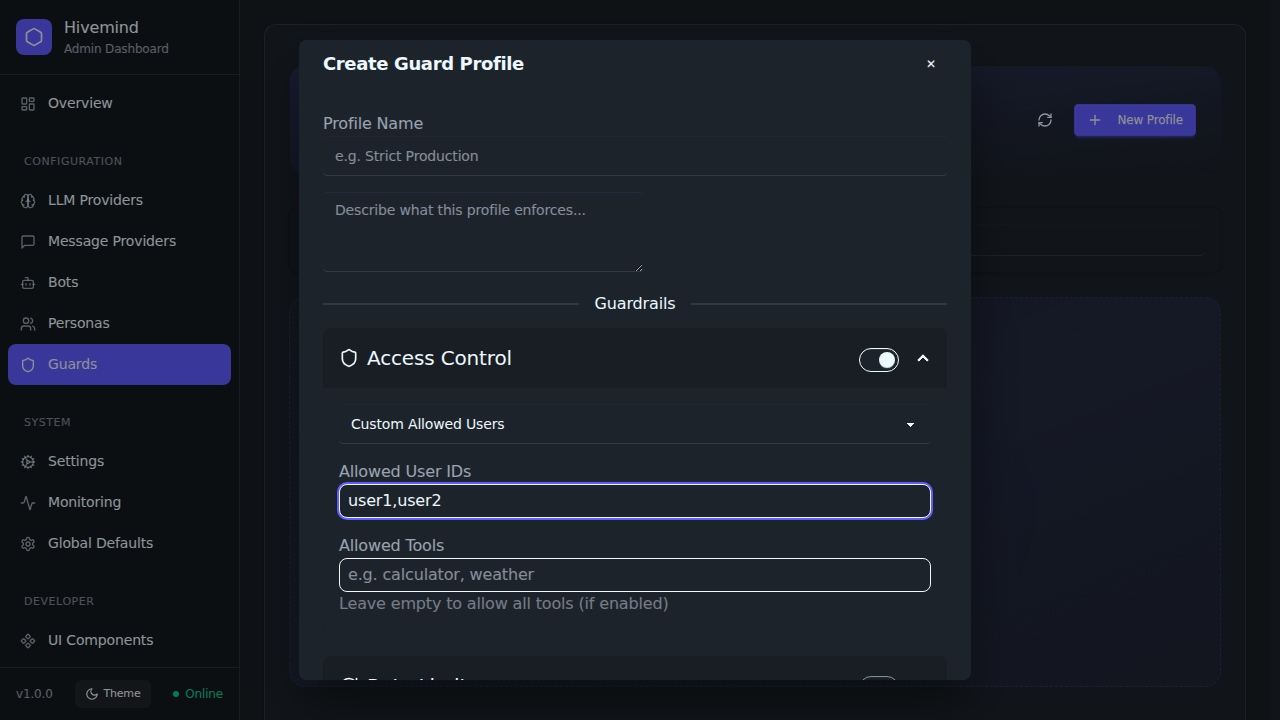
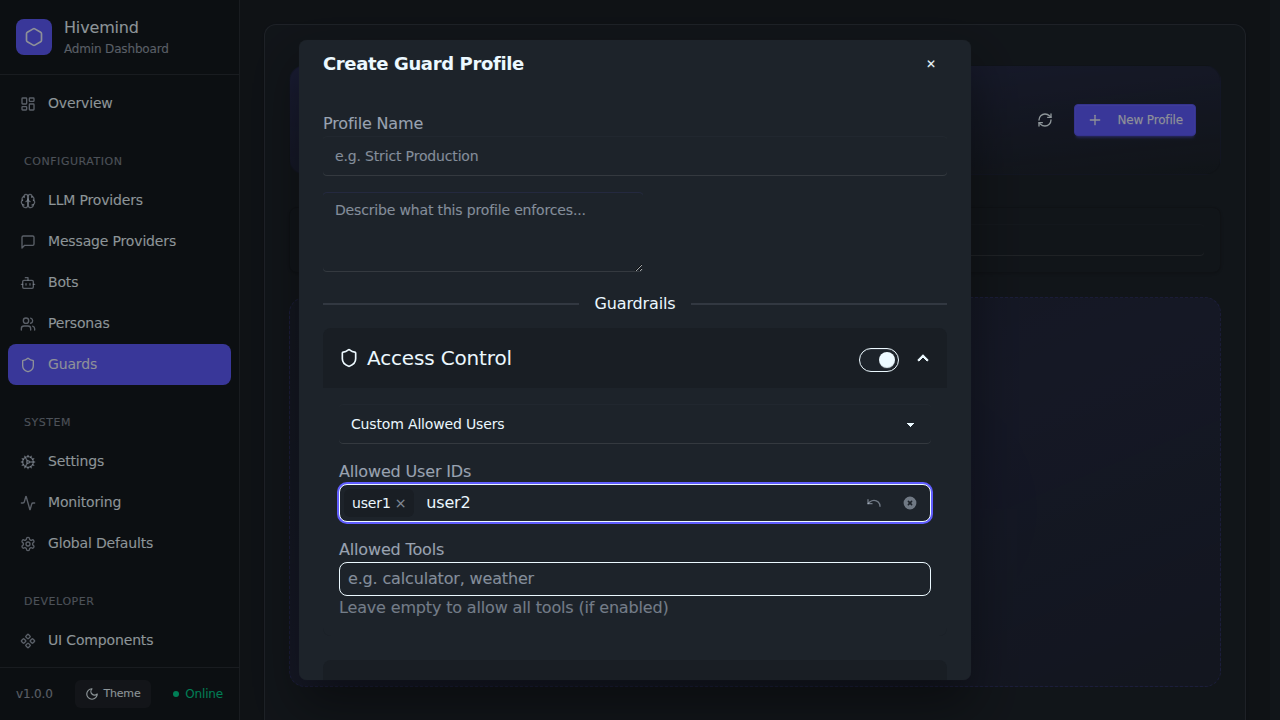
Refiner (Keyboard Navigation and Focus Management): Auto-tokenize chip on comma (#1553)
- Modified `CommaSeparatedInput.tsx` to immediately commit preceding text into a chip when a comma is typed, leaving trailing text in the input.
- Updated e2e Playwright test to verify this new chip creation behavior.

Changed region(s): [[0.25, 0.6722, 0.75, 0.8556]]

diff --git a/src/client/src/components/Common/CommaSeparatedInput.tsx b/src/client/src/components/Common/CommaSeparatedInput.tsx
@@ -67,10 +67,13 @@ export const CommaSeparatedInput: React.FC<CommaSeparatedInputProps> = ({
     }
   }, [canUndo, disabled, onChange]);
 
-  const commitInput = (forceValue?: string) => {
+  const commitInput = (forceValue?: string, overrideTrailingText?: string) => {
     const textToCommit = forceValue !== undefined ? forceValue : inputValue;
     if (!textToCommit.trim()) {
       setIsTouched(true);
+      if (overrideTrailingText !== undefined) {
+        setInputValue(overrideTrailingText);
+      }
       return;
     }
 
@@ -106,8 +109,8 @@ export const CommaSeparatedInput: React.FC<CommaSeparatedInputProps> = ({
         pushToHistory(next);
         onChange(next);
       }
-      setInputValue('');
-      setShowSuggestions(false);
+      setInputValue(overrideTrailingText !== undefined ? overrideTrailingText : '');
+      setShowSuggestions(overrideTrailingText !== undefined && overrideTrailingText.length > 0);
     }
   };
 
@@ -166,7 +169,18 @@ export const CommaSeparatedInput: React.FC<CommaSeparatedInputProps> = ({
   };
 
   const handleInputChange = (e: React.ChangeEvent<HTMLInputElement>) => {
-    setInputValue(e.target.value);
+    const val = e.target.value;
+
+    // Auto-commit on typing comma and leave trailing text
+    if (val.includes(',')) {
+      const parts = val.split(',');
+      const trailingText = parts.pop() || '';
+      const textToCommit = parts.join(',');
+      commitInput(textToCommit, trailingText);
+      return;
+    }
+
+    setInputValue(val);
     setShowSuggestions(true);
     if (internalError) {
       setInternalError(null);

diff --git a/tests/e2e/test-mcp-guard-ux.spec.ts b/tests/e2e/test-mcp-guard-ux.spec.ts
@@ -75,5 +75,9 @@ test('verify MCP Guard UX', async ({ page }) => {
 
   const value = await usersInput.inputValue();
   console.log('Input value after typing ",user2":', value);
-  expect(value).toBe('user1, user2');
+  expect(value).toBe('user2');
+
+  const chips = modal.locator('[data-testid="chip"]');
+  await expect(chips).toHaveCount(1);
+  await expect(chips.first()).toHaveText(/user1/);
 });
